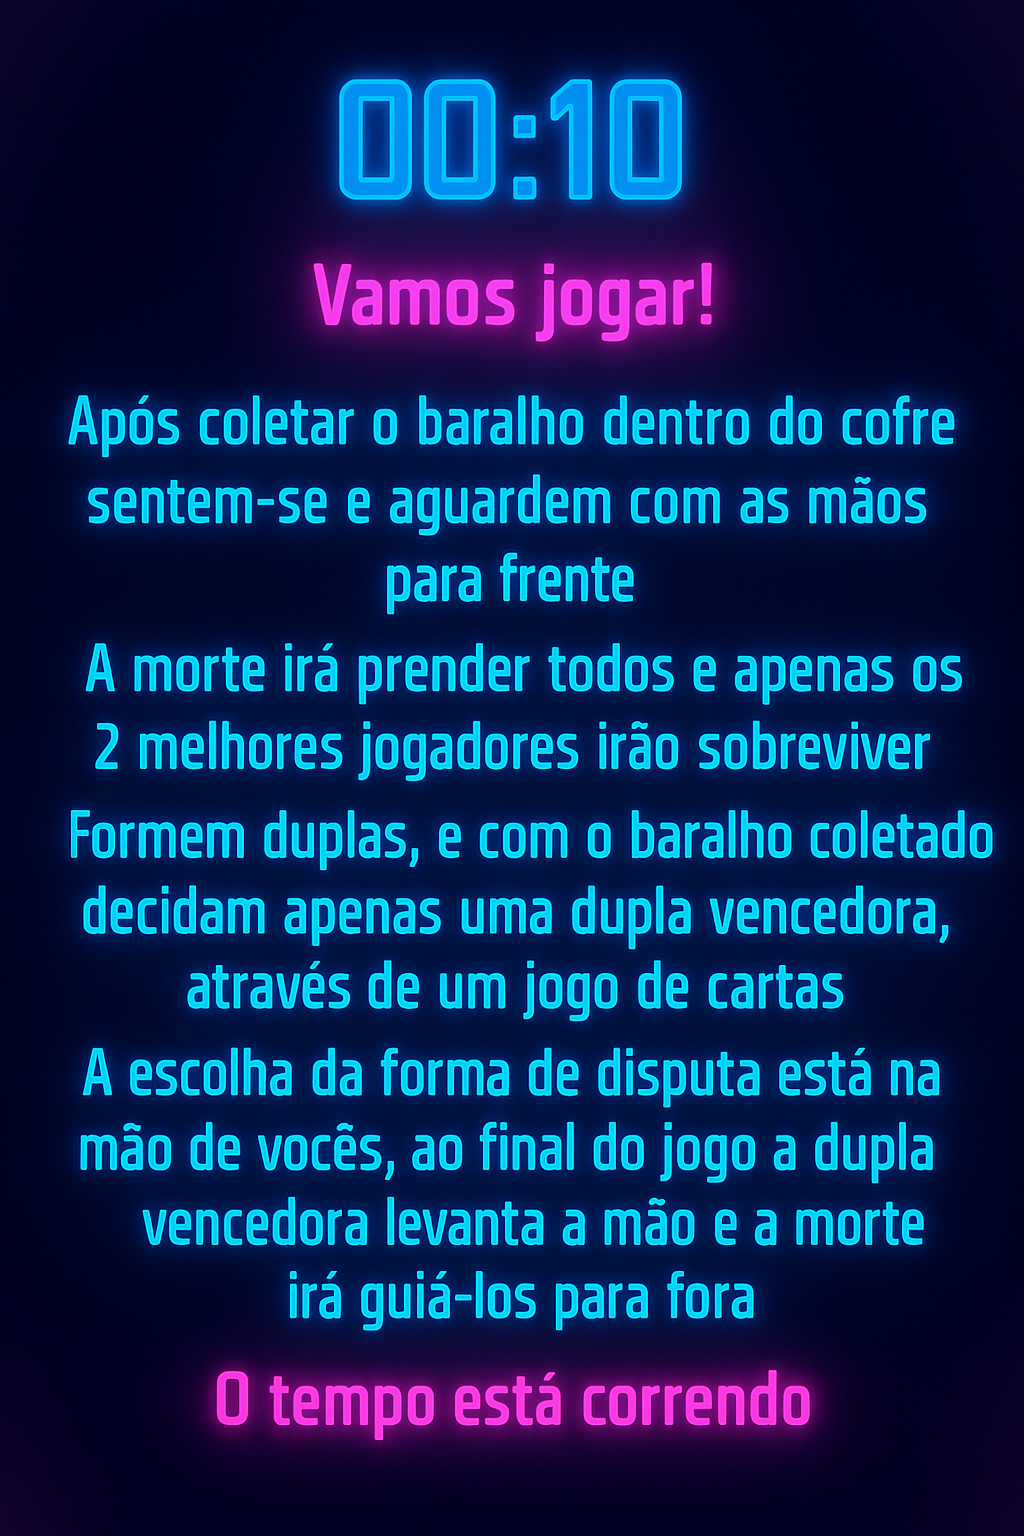
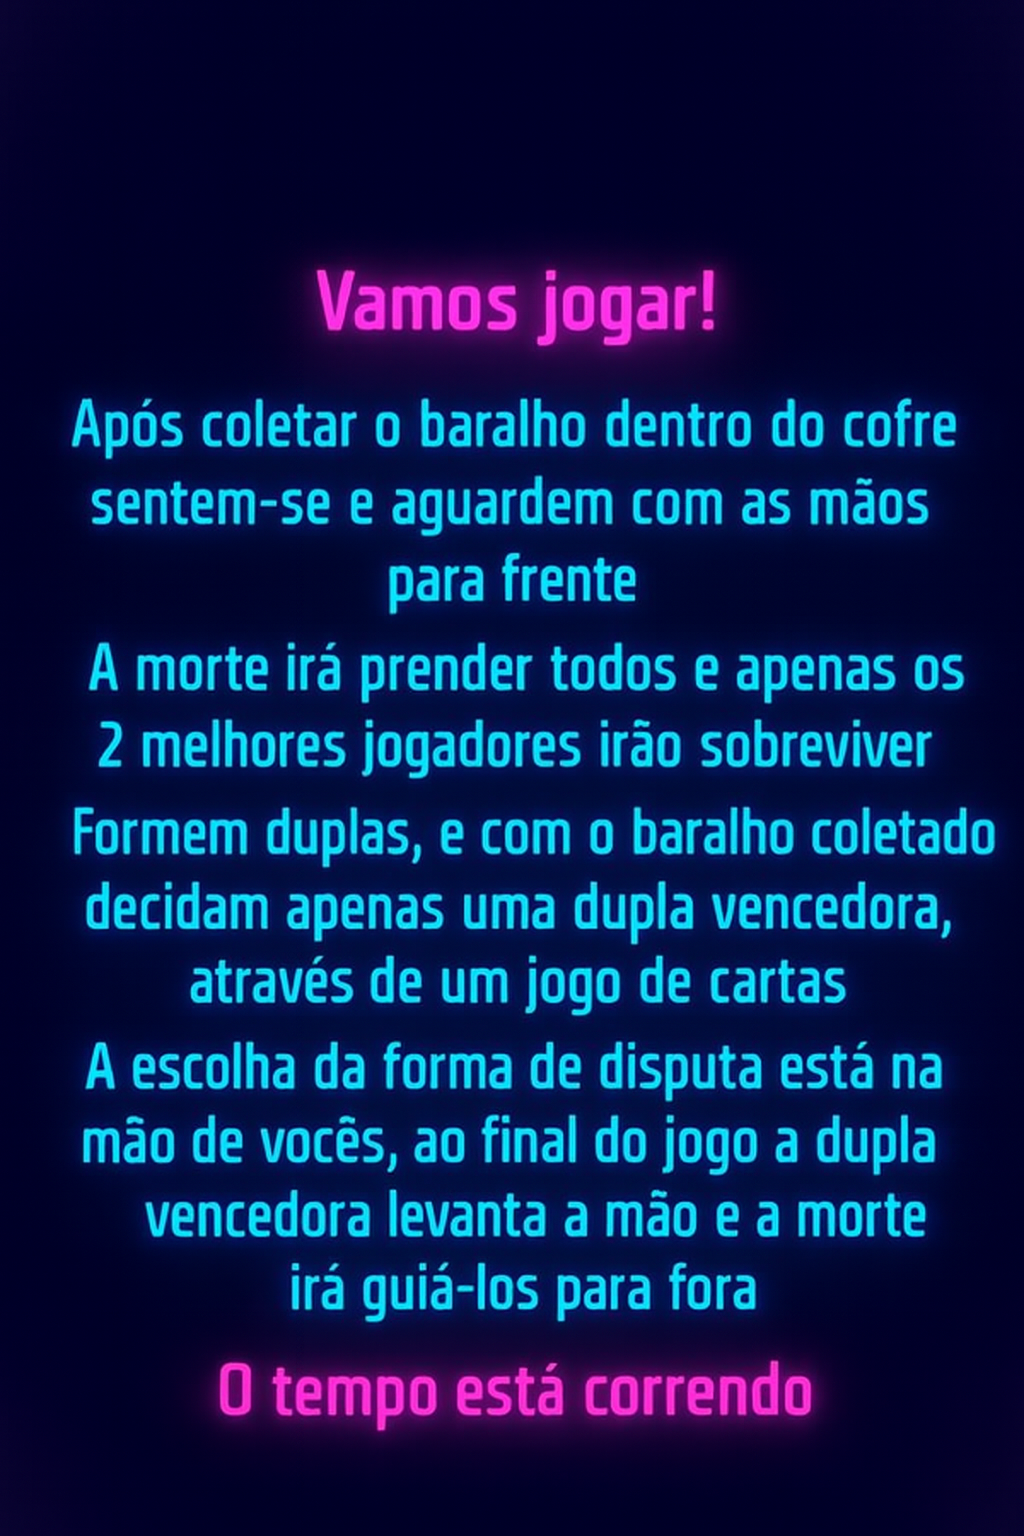
Arrumar a estetica e adicionar cronometro na Cena 8

Changed region(s): [[0.0625, 0.0312, 0.9688, 0.9688]]

diff --git a/src/scenes/scene8.ts b/src/scenes/scene8.ts
@@ -2,47 +2,62 @@ import { Scene } from "phaser"
 import MultiPlayerGame from "../main"
 
 export class Scene8 extends Scene {
+  private timerText!: Phaser.GameObjects.Text
+  private totalTime: number = 10 * 60 // 10 minutos em segundos
+  private timerEvent!: Phaser.Time.TimerEvent
+
   constructor() {
-    super({ key: "Scene8" })
+    super("scene8")
   }
 
   preload() {
-    // Carrega a imagem (ajuste o caminho se necessário)
+    // Carrega imagem de fundo
     this.load.image("regras8", "assets/Scene8/regras8.png")
   }
 
   create() {
-    // Define o tamanho fixo desejado
-    const targetWidth = 450
-    const targetHeight = 800
+    // Fundo
+    const bg = this.add.image(0, 0, "regras8").setOrigin(0)
+    bg.displayWidth = 450
+    bg.displayHeight = 800
 
-    // Centraliza na tela
-    const centerX = this.scale.width / 2
-    const centerY = this.scale.height / 2
+    // Texto do cronômetro
+    this.timerText = this.add
+      .text(225, 100, this.formatTime(this.totalTime), {
+        fontFamily: "Arial",
+        fontSize: "72px",
+        color: "#00FFFF",
+        fontStyle: "bold"
+      })
+      .setOrigin(0.5)
+      
 
-    // Adiciona a imagem
-    const bg = this.add.image(centerX, centerY, "regras8")
-
-    // Define tamanho fixo de exibição (sem redimensionar automaticamente)
-    bg.setDisplaySize(targetWidth, targetHeight)
-    bg.setScrollFactor(0)
-
-    // MQTT: publica que está na Scene8
-    ;(this.game as typeof MultiPlayerGame).mqttClient.publish(
-      "escape-run/player/scene",
-      "Scene8"
-    )
-
-    // Transição automática para a próxima cena após 10 segundos
-    this.time.delayedCall(10000, () => {
-      ;(this.game as typeof MultiPlayerGame).mqttClient.publish(
-        "escape-run/player/scene",
-        "Scene9"
-      )
+    // Atualiza o cronômetro a cada segundo
+    this.timerEvent = this.time.addEvent({
+      delay: 1000, // 1 segundo
+      callback: this.updateTimer,
+      callbackScope: this,
+      loop: true
     })
   }
 
-  update() {
-    // Nenhuma atualização necessária
+  private updateTimer() {
+    if (this.totalTime > 0) {
+      this.totalTime--
+      this.timerText.setText(this.formatTime(this.totalTime))
+    } else {
+      this.timerEvent.remove()
+      this.timerText.setText("00:00")
+      this.timerText.setColor("#FF00FF")
+      this.timerText.setShadow(0, 0, "#FF00FF", 30, true, true)
+    }
+  }
+
+  private formatTime(seconds: number): string {
+    const minutes = Math.floor(seconds / 60)
+    const partInSeconds = seconds % 60
+    const minutesStr = minutes.toString().padStart(2, "0")
+    const secondsStr = partInSeconds.toString().padStart(2, "0")
+    return `${minutesStr}:${secondsStr}`
   }
 }
